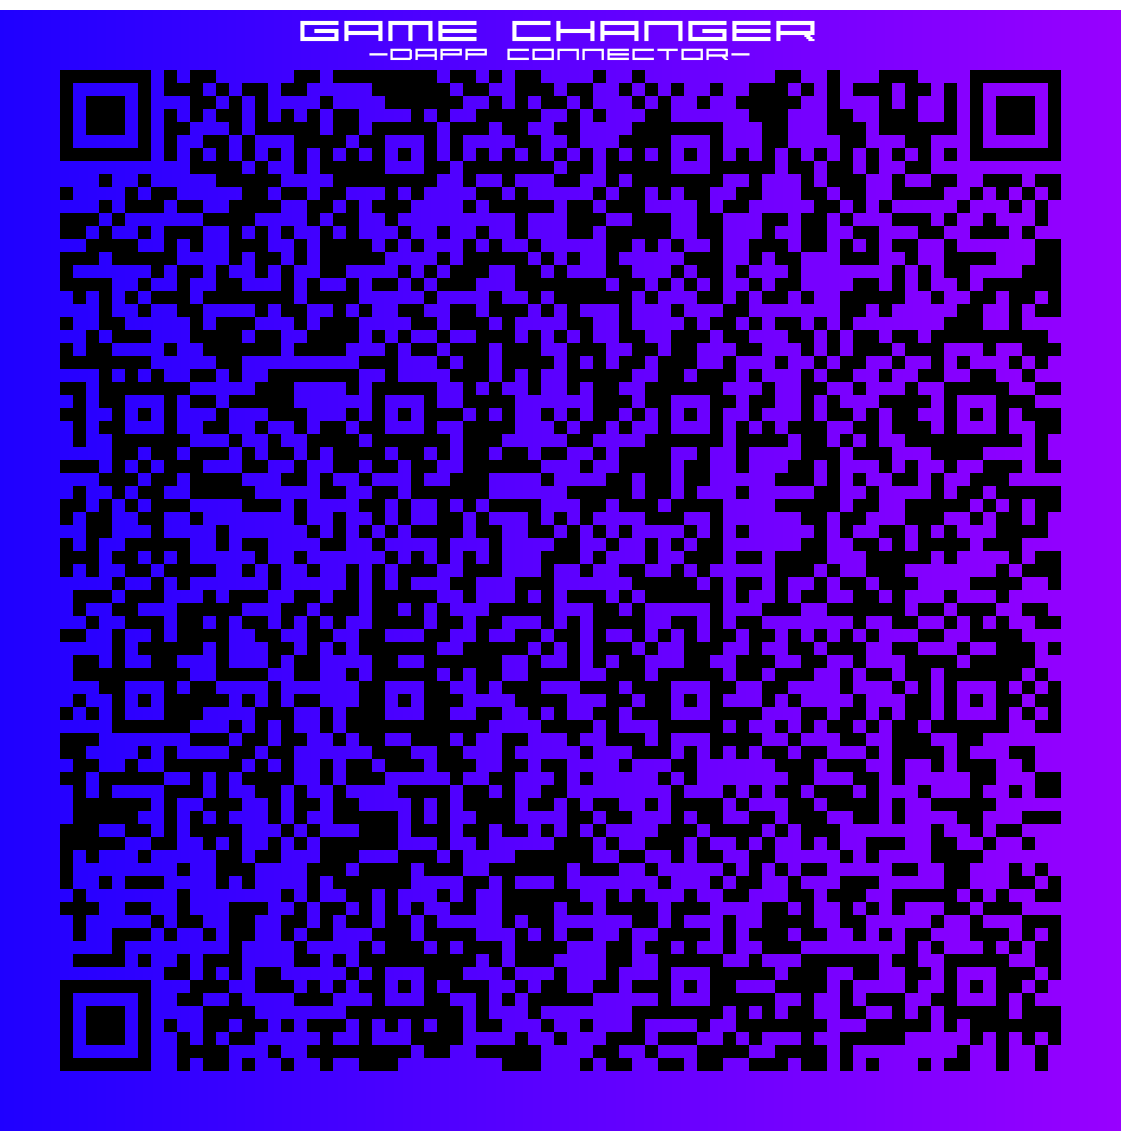
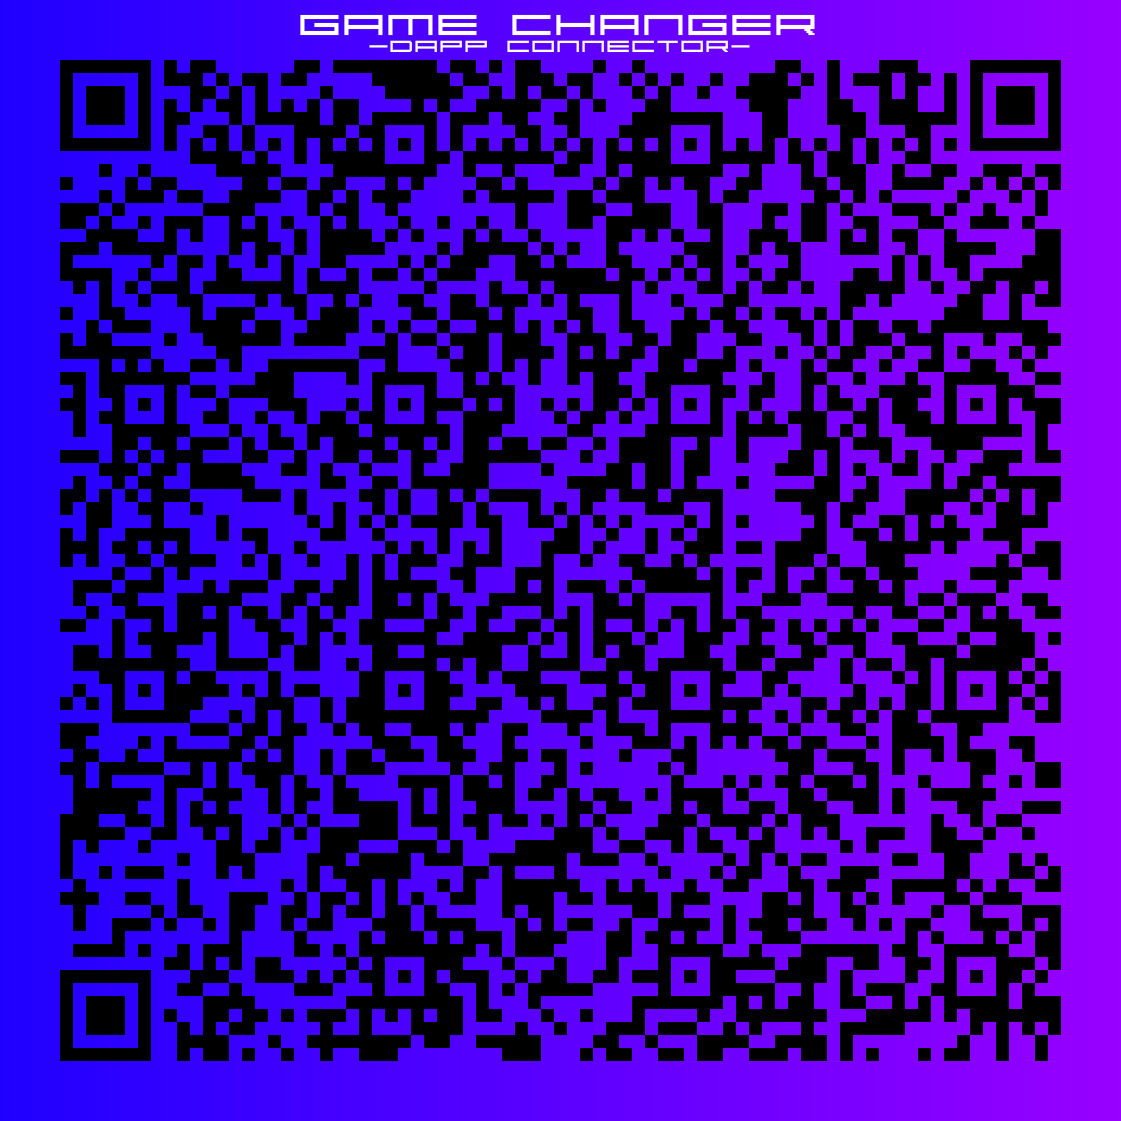
Fix background transparent pixel breaking the scanners.

diff --git a/src/config/styles.js b/src/config/styles.js
@@ -39,9 +39,9 @@ export default {
 		quietZoneColor: "rgba(0,0,0,0)",
 		title: "GAME CHANGER",
 		subTitle: "-Dapp Connector-",
-		titleTop: -19,
-		subTitleTop: 0,
-		titleHeight: 10,
+		titleTop: -25,
+		subTitleTop: -8,
+		titleHeight: 0,
 		titleBackgroundColor: "rgba(0,0,0,0)",
 		titleColor: "#ffffff",
 		subTitleColor: "#ffffff",
@@ -60,9 +60,9 @@ export default {
 		subTitle: "-Dapp Connector-",
 		quietZone: 60,
 		quietZoneColor: "rgba(0,0,0,0)",
-		titleTop: -19,
-		subTitleTop: 0,
-		titleHeight: 10,
+		titleTop: -25,
+		subTitleTop: -8,
+		titleHeight: 0,
 		titleBackgroundColor: "#ffffff",
 		titleColor: "#000000",
 		subTitleColor: "#000000",
